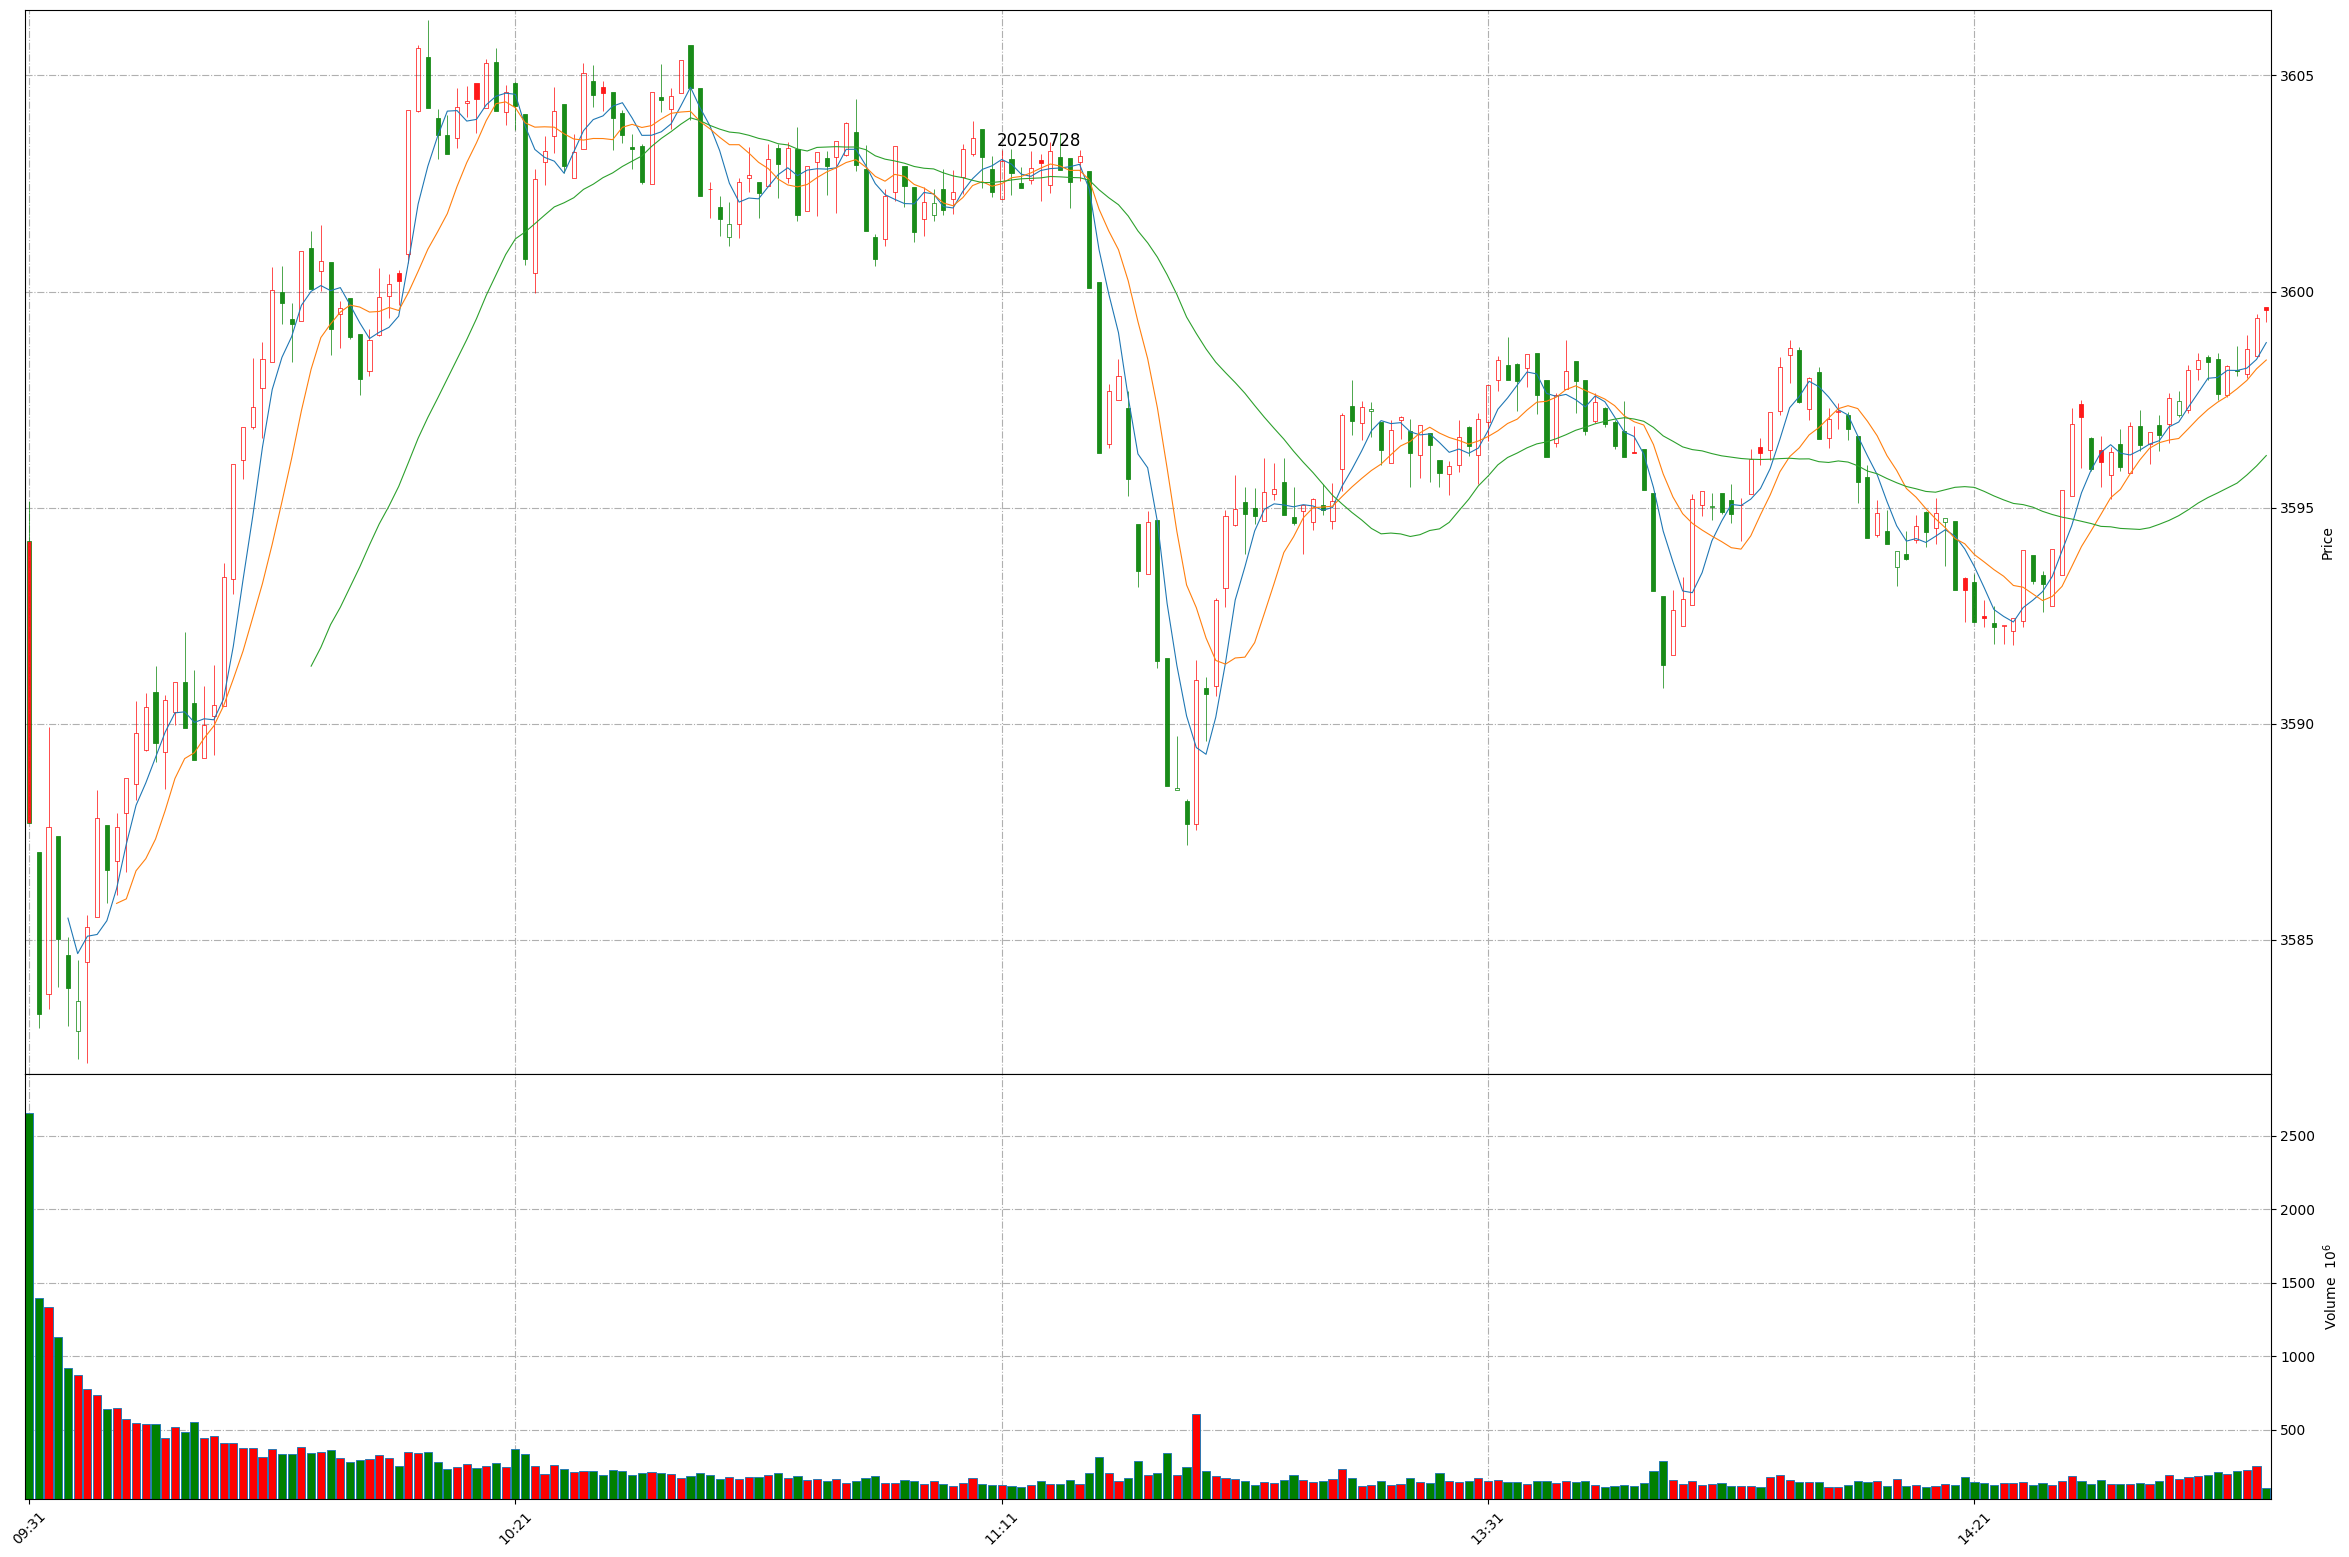
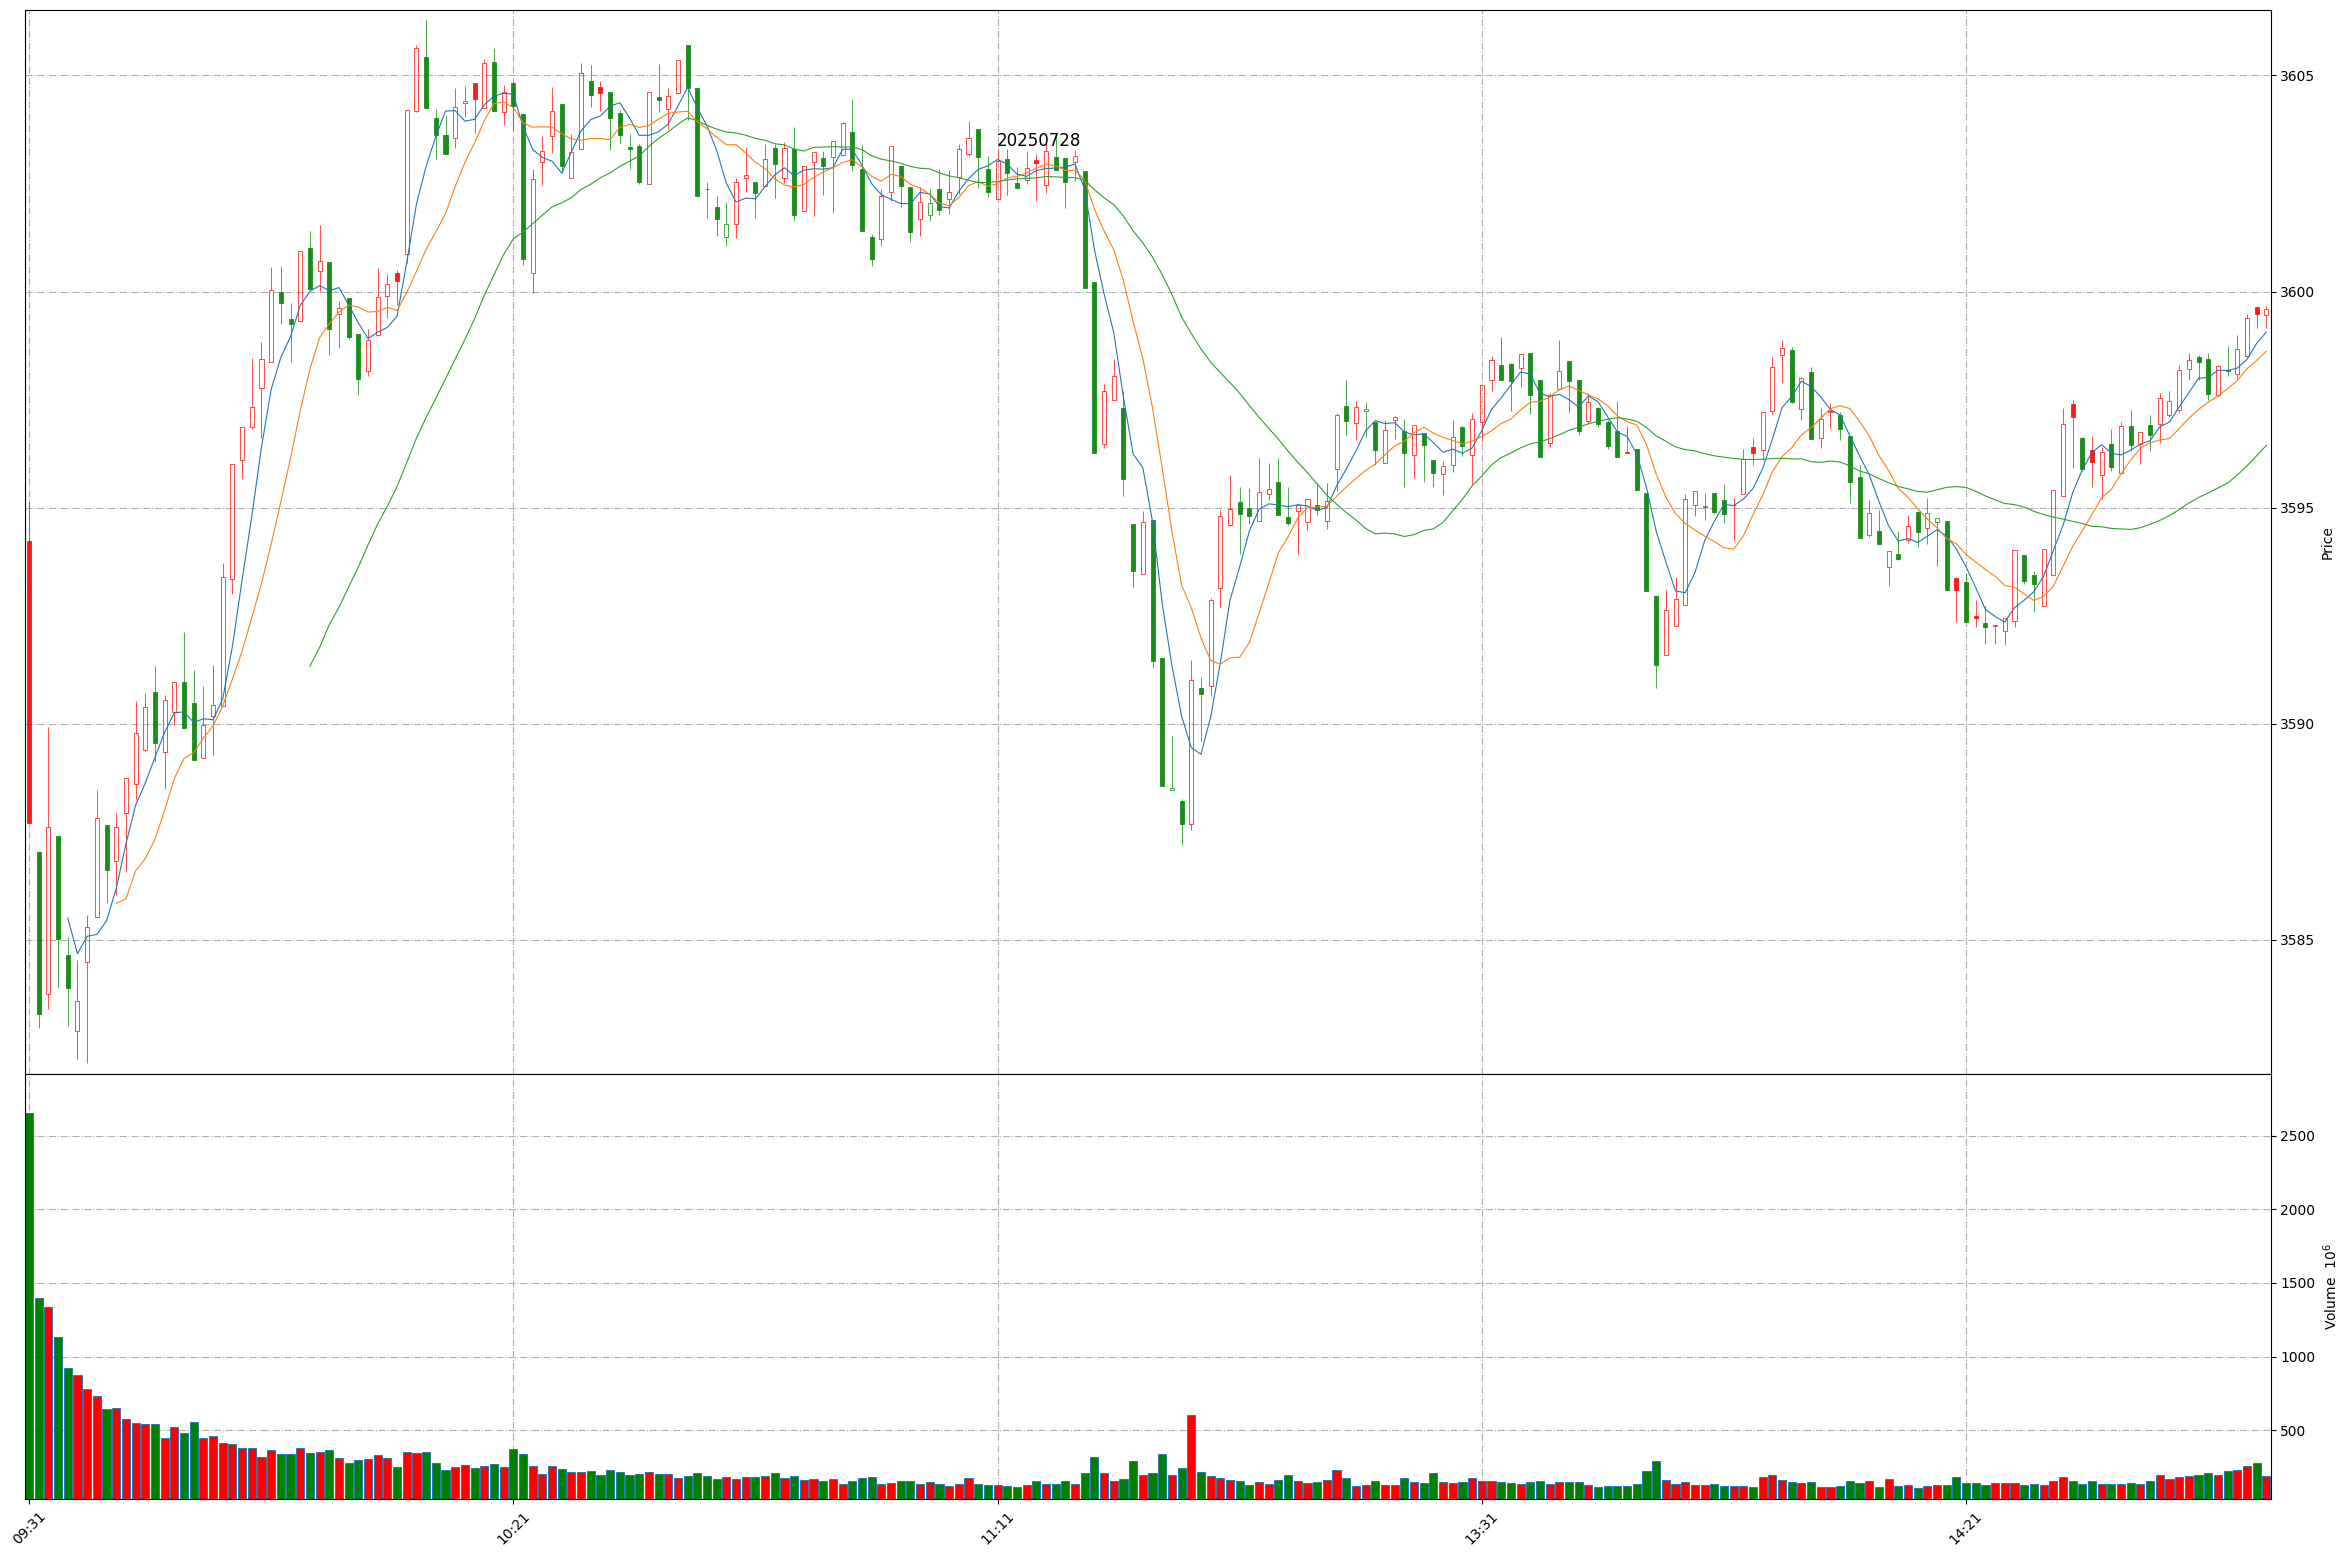
Github action update at 2025-07-28 14:52:20.

diff --git a/README.md b/README.md
@@ -1,11 +1,11 @@
 
 # Daily-A-share-market-quotes 每日 A 股指数（5min 更新）- 20250728
 
-### 上证指数 20250728 14:50
+### 上证指数 20250728 14:52
 ![](./fig/2025/7/20250728-sh000001.png)
 
-### 深证成指 20250728 14:50
+### 深证成指 20250728 14:52
 ![](./fig/2025/7/20250728-sz399001.png)
 
-### 北证50 20250728 14:50
+### 北证50 20250728 14:52
 ![](./fig/2025/7/20250728-bj899050.png)
